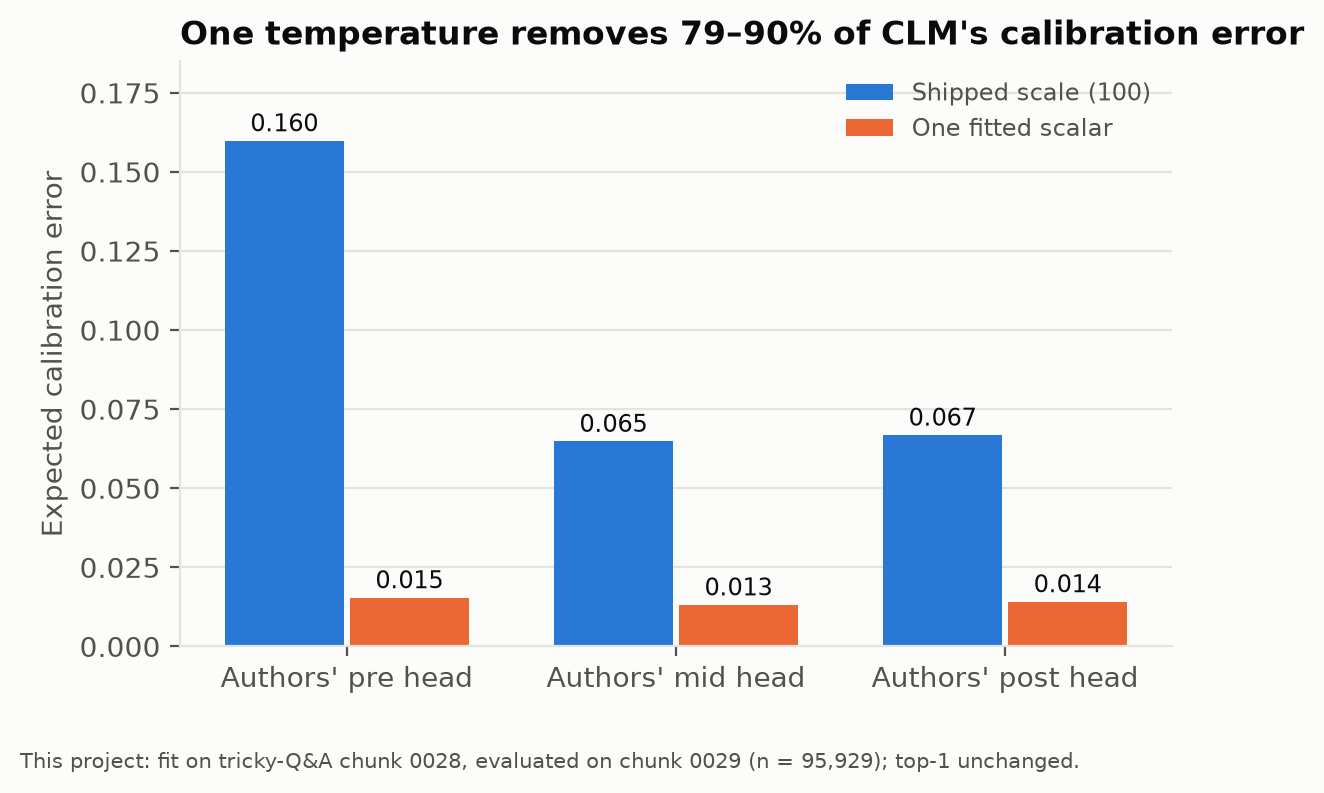
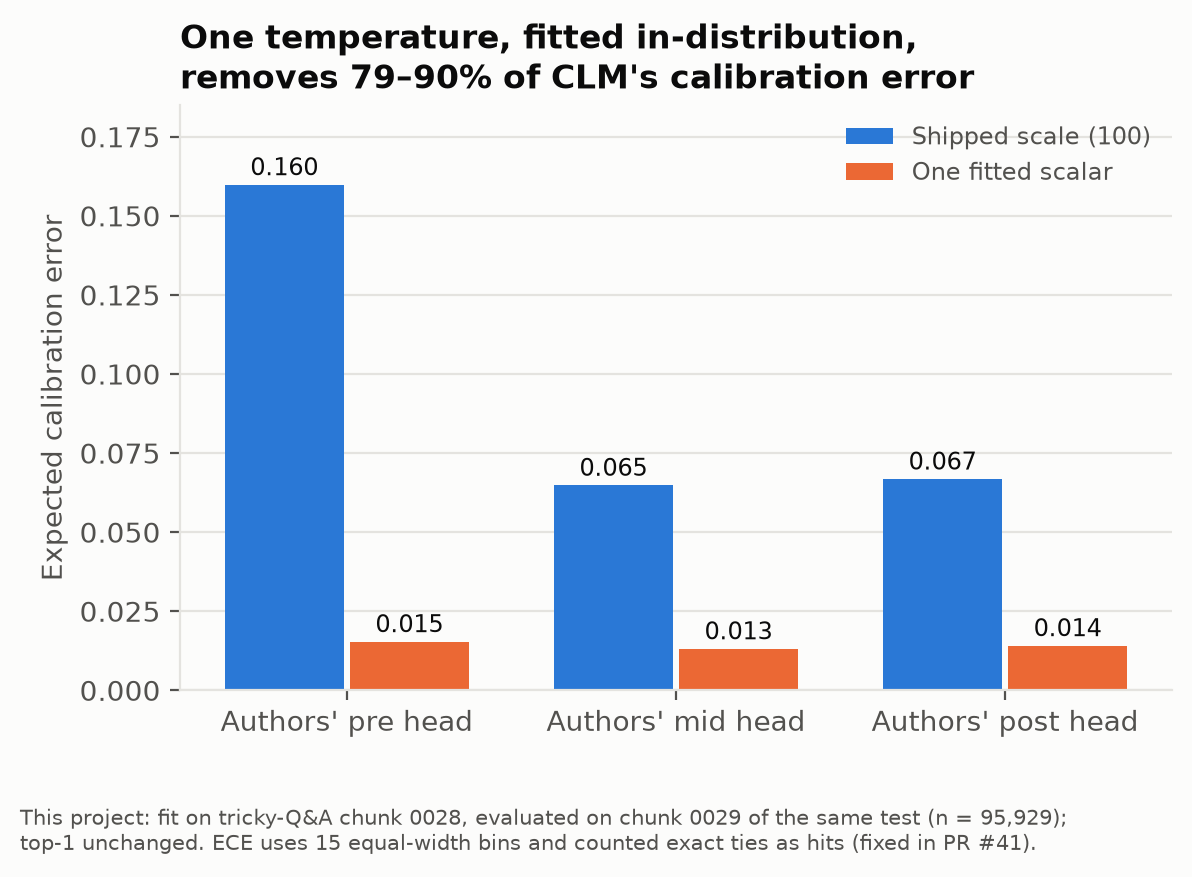
docs(survey): embed every figure; fix captions and the blank reliability plot (part 10)
- Figures 2-6 are now embedded with captions (frontier, truncation, calibration, reliability,
  order flips); four were previously generated but never shown
- calibration: title says the fit is in-distribution; footnote names the 15-bin ECE and the tie bug
- reliability: two-line footnote keeps the tight bounding box (no blank half); the leftmost-bin
  anomaly is attributed to exact ties, fixed in PR #41
- truncation: prefixes are re-normalised; order flips: do not compare across rows

Changed region(s): [[0.031, 0.0, 0.9933, 0.8777], [0.0, 0.9079, 0.9002, 0.9685]]

diff --git a/scripts/research_figures.py b/scripts/research_figures.py
@@ -181,12 +181,13 @@ def calibration(heads: dict) -> None:
     ax.set_ylabel("Expected calibration error")
     ax.grid(axis="x", visible=False)
     ax.set_ylim(0, 0.185)
-    ax.set_title("One temperature removes 79–90% of CLM's calibration error")
+    ax.set_title("One temperature, fitted in-distribution,\nremoves 79–90% of CLM's calibration error")
     ax.legend(fontsize=8.5)
     fig.text(
         0.0,
-        -0.05,
-        "This project: fit on tricky-Q&A chunk 0028, evaluated on chunk 0029 (n = 95,929); top-1 unchanged.",
+        -0.10,
+        "This project: fit on tricky-Q&A chunk 0028, evaluated on chunk 0029 of the same test (n = 95,929);\n"
+        "top-1 unchanged. ECE uses 15 equal-width bins and counted exact ties as hits (fixed in PR #41).",
         fontsize=7.5,
         color=INK2,
     )
@@ -220,9 +221,9 @@ def reliability(heads: dict) -> None:
     ax.legend(loc="upper left", fontsize=8.5)
     fig.text(
         0.0,
-        -0.06,
-        "This project; bins with ≥ 200 decisions; dashed = perfect calibration. The leftmost bin "
-        "(n = 409, confidence ≈ 1/11) is anomalous, likely near-tied rows (not investigated).",
+        -0.10,
+        "This project; bins with ≥ 200 decisions; dashed = perfect calibration. The leftmost bin\n"
+        "(n = 409, confidence ≈ 1/11) is consistent with exact ties resolved to the gold (fixed in PR #41).",
         fontsize=7.5,
         color=INK2,
     )
@@ -253,7 +254,13 @@ def matryoshka(heads: dict) -> None:
     ax.set_ylabel("Tricky-Q&A top-1 (%)")
     ax.set_title("Untrained truncation is lossy: no Matryoshka training")
     ax.legend(fontsize=8.5, loc="lower right")
-    fig.text(0.0, -0.05, "This project: full held-out test, n = 191,161.", fontsize=7.5, color=INK2)
+    fig.text(
+        0.0,
+        -0.05,
+        "This project: full held-out test, n = 191,161; prefixes are re-normalised before the cosine.",
+        fontsize=7.5,
+        color=INK2,
+    )
     save(fig, "clm_truncation")
 
 
@@ -282,9 +289,9 @@ def order_flips() -> None:
     ax.set_title("Order sensitivity across System One designs")
     fig.text(
         0.0,
-        -0.06,
-        "Sources: Von, AnyJev, Runoff (2610.18233), SemIf, Jeva (2610.18773), Jeff (2610.17205), "
-        "JevAdvBench (2609.31142). Protocols differ; compare within rows.",
+        -0.10,
+        "Sources: Von, AnyJev, Runoff (2610.18233), SemIf, Jeva (2610.18773), Jeff (2610.17205),\n"
+        "JevAdvBench (2609.31142). Protocols differ, so do not compare across rows.",
         fontsize=7.5,
         color=INK2,
     )

diff --git a/docs/research/survey.md b/docs/research/survey.md
@@ -464,6 +464,10 @@ Kev's ordinal CDF penalty was a reported negative [@kev-repo, PLAN.md].
 - **Matryoshka training** [@mrl] makes prefixes of an embedding usable on their own. The published CLM heads were not trained this way. Truncating the mid-training head's 512-d output to 256 / 128 / 64 dimensions drops tricky-Q&A top-1 from 69.16% to 63.28 / 56.69 / 51.02% (this project).
 - **Anisotropy.** Bongard found raw readout cosines between unrelated items of 0.93–0.996 and fixed this with *pack centring*, subtracting a stop-gradient batch mean per view before normalizing. With $\lambda = 0.004$ this moved within-source retrieval from 2.3% to 56.6% [@bongard, §4.2]. CLM's state embeddings show the same pathology after the state head (cosine 0.947) [@clm-repo, issue #15].
 
+![Accuracy of truncated prefixes of the mid-training CLM head's embeddings](figures/clm_truncation.png)
+
+*Figure 3. Untrained truncation of the published mid-training CLM head (this project, n = 191,161). Prefixes are re-normalised before the cosine.*
+
 ### 4.6 What to adapt: head-only, LoRA or full fine-tuning
 
 The strongest finding in the literature concerns *where* to spend trainable parameters.
@@ -592,6 +596,14 @@ For each of the authors' published CLM heads, we fit one inverse temperature on 
 
 One scalar removes 79–90% of the calibration error; top-1 cannot change, because rescaling preserves the argmax. Two caveats apply. The fit and the evaluation are two chunks of the same distribution, the in-distribution setting that §5.3 warns may not transfer. And this ECE (15 equal-width top-label bins) counted exact ties between the gold option and a negative as hits, a bug fixed in PR #41. Table 6 will be re-measured in M0 with tie-correct scoring, a randomised gold position and a cross-dataset fit. The cap of 100 is tuned for retrieval among about 16k in-batch candidates, not for 11-way decisions *(inference)*.
 
+![ECE of the three published CLM heads before and after one fitted temperature](figures/clm_calibration.png)
+
+*Figure 4. One temperature per head, fitted in-distribution (this project). Values will be re-measured with tie-correct scoring in M0.*
+
+![Reliability diagram of the mid-training CLM head before and after temperature scaling](figures/clm_reliability.png)
+
+*Figure 5. Reliability of the mid-training head. The leftmost bin is consistent with exact ties resolved to the gold's index, which PR #41 fixes.*
+
 ---
 
 ## 6. Training data
@@ -690,6 +702,10 @@ Whether exact invariance costs accuracy in joint models is unsettled:
 - Kev's option isolation cost −5.8 pp in a single 4B run, but nothing at 0.6B [@kev-repo].
 - Jeff's order-invariant encodings scored 0.6–2.4 points lower, which the authors call "within noise" with one run per variant.
 - Jeff also notes that sorting options by text gives the same invariance at no cost (+1.0 / −0.4) [@jeff, App. G].
+
+![Option-order flip rates reported for System One designs](figures/order_flips.png)
+
+*Figure 6. Reported order sensitivity. Protocols differ, so do not compare across rows.*
 
 **FM2: Yes/no polarity.** Swapping which identifier means "yes" flips 50.5 of 100 answers for Jev (AUC 0.89 → 0.31) and 91.3 for Laya. Four fine-tuned decision checkpoints (Kev-9B, Nimble-9B, decider-2b, this-that) flip 4.2–6.5, while fine-tuned Kev-0.8B flips 14.3 [@rafedas]. Laya's own tracker shows Noul returning the negative label in both polarities at confidence 1.0 [@laya-repo, issue #156].
 
@@ -855,7 +871,9 @@ Four things follow:
 - **CLM is the fastest System-1-native model but not the fastest model.** Its own backbone read at the answer token is faster (30 ms) and 17.9 points more accurate. Per §7 (FM7, FM14), the deficit plausibly reflects *what* CLM encodes rather than the frozen backbone, although S1-Arena also cut CLM's inputs to the last 2,048 tokens (the readout saw full inputs) and CLM never trained on typed decisions.
 - **Cached designs (F1/F2) are the most direct route to millisecond decisions under reuse, but not the only one** (§9.1). NDM adds 0.8–4.9 ms per extra question over a cached state [@ndm], Laya answers one question in 4.6 ms on an RTX 4070 Ti S [@laya-repo], and Beveridge runs in 4.9 ms on an H200 [@beveridge]. The advantage is specific to workloads with reused option sets and revisited states (W2), and there CLM is weak too: over 29,852 commands its `/v1/rank` scores 0/20 top-1 against BM25's 8/20 [@clm-repo, issue #15]. Latencies above come from different hardware and are not directly comparable.
 
-Figure 2 (`figures/s1arena_frontier.png`) plots all rows.
+![System1-Arena accuracy against p50 latency for every System-1 and open-LLM row](figures/s1arena_frontier.png)
+
+*Figure 2. System1-Arena accuracy against p50 latency for all 22 System-1 and open-LLM rows of Table 1 [@s1arena]. Local models ran on an idle H100; hosted models include network time.*
 
 ### 9.3 Kernels, graphs and quantization
 
